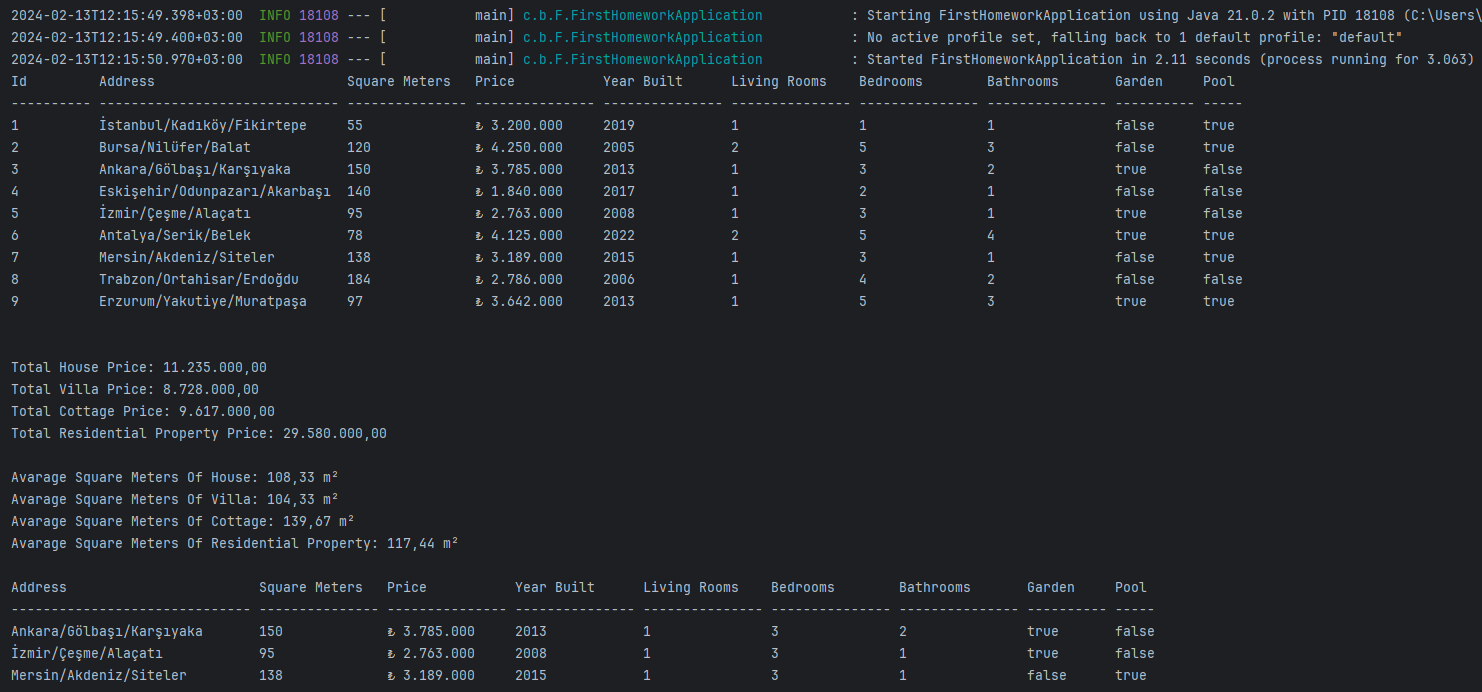
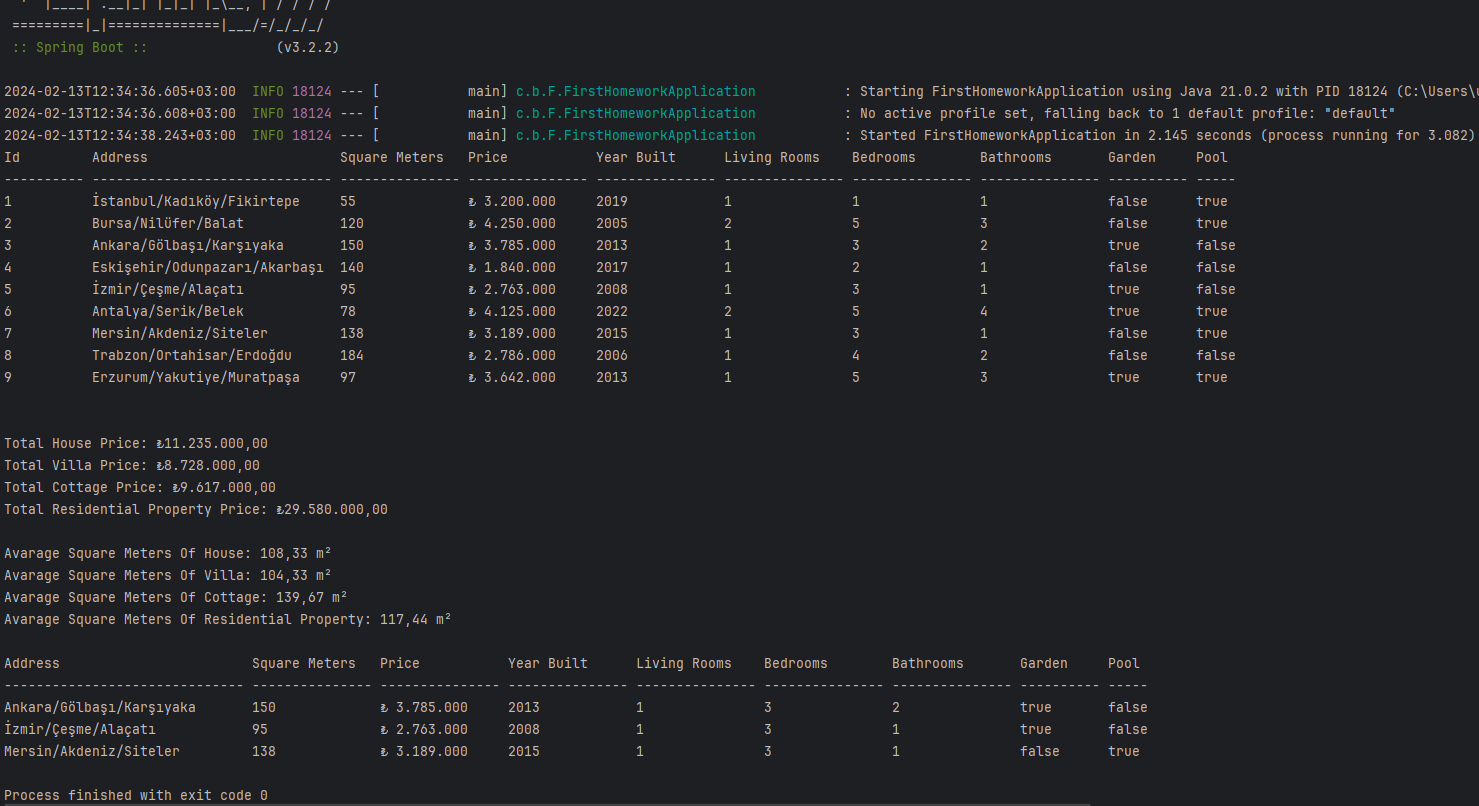
Code section added to .md file.

diff --git a/src/main/java/com/berkayarslan/FirstHomework/FirstHomeworkApplication.java b/src/main/java/com/berkayarslan/FirstHomework/FirstHomeworkApplication.java
@@ -22,13 +22,13 @@ public class FirstHomeworkApplication {
 
 		System.out.println("\n");
 
-		System.out.println("Total House Price: " + String.format("%,.2f",residentialPropertyService.getTotalPriceOfPropertyType(House.class)));
+		System.out.println("Total House Price: " + String.format("₺%,.2f",residentialPropertyService.getTotalPriceOfPropertyType(House.class)));
 
-		System.out.println("Total Villa Price: " + String.format("%,.2f",residentialPropertyService.getTotalPriceOfPropertyType(Villa.class)));
+		System.out.println("Total Villa Price: " + String.format("₺%,.2f",residentialPropertyService.getTotalPriceOfPropertyType(Villa.class)));
 
-		System.out.println("Total Cottage Price: " + String.format("%,.2f",residentialPropertyService.getTotalPriceOfPropertyType(Cottage.class)));
+		System.out.println("Total Cottage Price: " + String.format("₺%,.2f",residentialPropertyService.getTotalPriceOfPropertyType(Cottage.class)));
 
-		System.out.println("Total Residential Property Price: " + String.format("%,.2f",residentialPropertyService.getTotalPriceOfResidentialProperty())+"\n");
+		System.out.println("Total Residential Property Price: " + String.format("₺%,.2f",residentialPropertyService.getTotalPriceOfResidentialProperty())+"\n");
 
 		System.out.println("Avarage Square Meters Of House: " + String.format("%,.2f",residentialPropertyService.getAverageSquareMetersOfPropertyType(House.class)) + " m\u00B2");
 

diff --git a/README.md b/README.md
@@ -43,6 +43,39 @@ A configuration class annotated with `@Configuration`, responsible for setting u
 
 ### `FirstHomeworkApplication`
 The main class of the application, annotated with `@SpringBootApplication`. It runs the Spring application, utilizes the `ResidentialPropertyService` to perform operations, and demonstrates the system's functionalities by printing property details and statistics.
+```java
+public static void main(String[] args) {
+		ApplicationContext context = SpringApplication.run(FirstHomeworkApplication.class, args);
 
+		ResidentialPropertyService residentialPropertyService = context.getBean(ResidentialPropertyService.class);
+
+
+		residentialPropertyService.printAllResidentialPropertiesTable();
+
+		System.out.println("\n");
+
+		System.out.println("Total House Price: " + String.format("₺%,.2f",residentialPropertyService.getTotalPriceOfPropertyType(House.class)));
+
+		System.out.println("Total Villa Price: " + String.format("₺%,.2f",residentialPropertyService.getTotalPriceOfPropertyType(Villa.class)));
+
+		System.out.println("Total Cottage Price: " + String.format("₺%,.2f",residentialPropertyService.getTotalPriceOfPropertyType(Cottage.class)));
+
+		System.out.println("Total Residential Property Price: " + String.format("₺%,.2f",residentialPropertyService.getTotalPriceOfResidentialProperty())+"\n");
+
+		System.out.println("Avarage Square Meters Of House: " + String.format("%,.2f",residentialPropertyService.getAverageSquareMetersOfPropertyType(House.class)) + " m\u00B2");
+
+		System.out.println("Avarage Square Meters Of Villa: " +  String.format("%,.2f",residentialPropertyService.getAverageSquareMetersOfPropertyType(Villa.class)) + " m\u00B2");
+
+		System.out.println("Avarage Square Meters Of Cottage: " + String.format("%,.2f",residentialPropertyService.getAverageSquareMetersOfPropertyType(Cottage.class)) + " m\u00B2");
+
+		System.out.println("Avarage Square Meters Of Residential Property: " + 	String.format("%,.2f",residentialPropertyService.getAverageSquareMetersOfResidentialProperty()) + " m\u00B2 \n");
+
+		residentialPropertyService.printFilterPropertyByRoomsTable(3,1);
+
+	}
+```
+	
+	
+	
 ### `Output`
 ![Output](./OutputImg/output.png)
